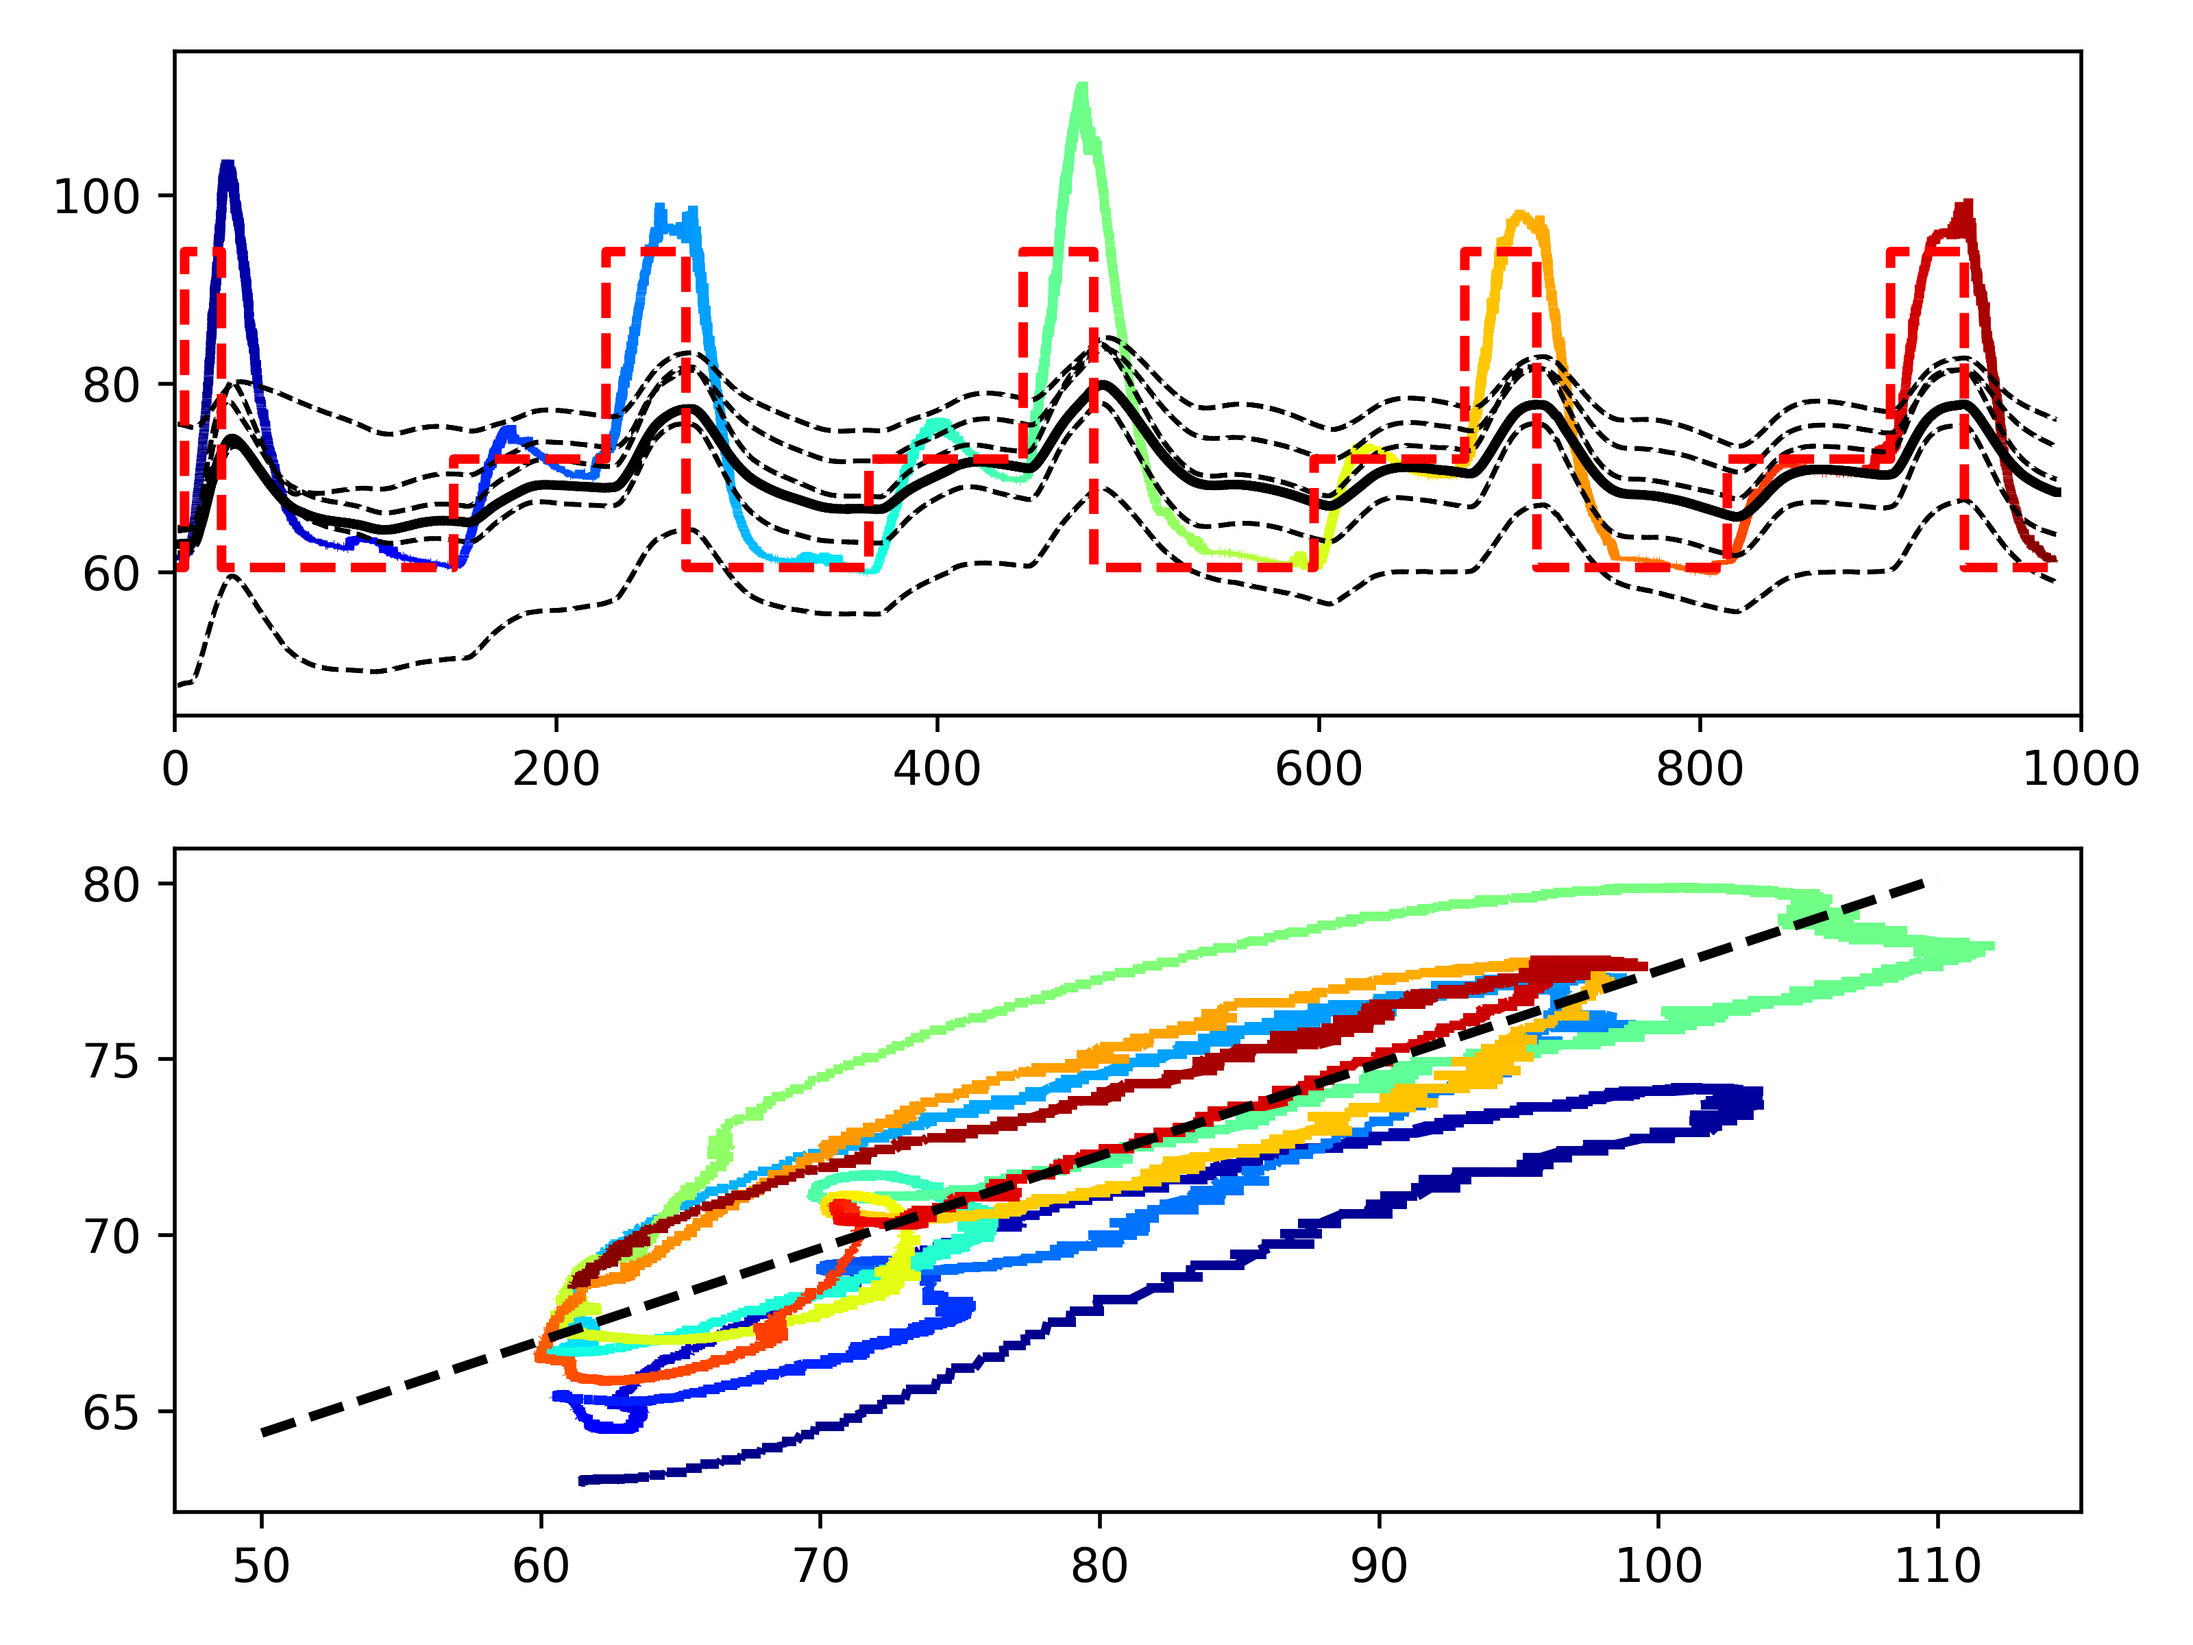
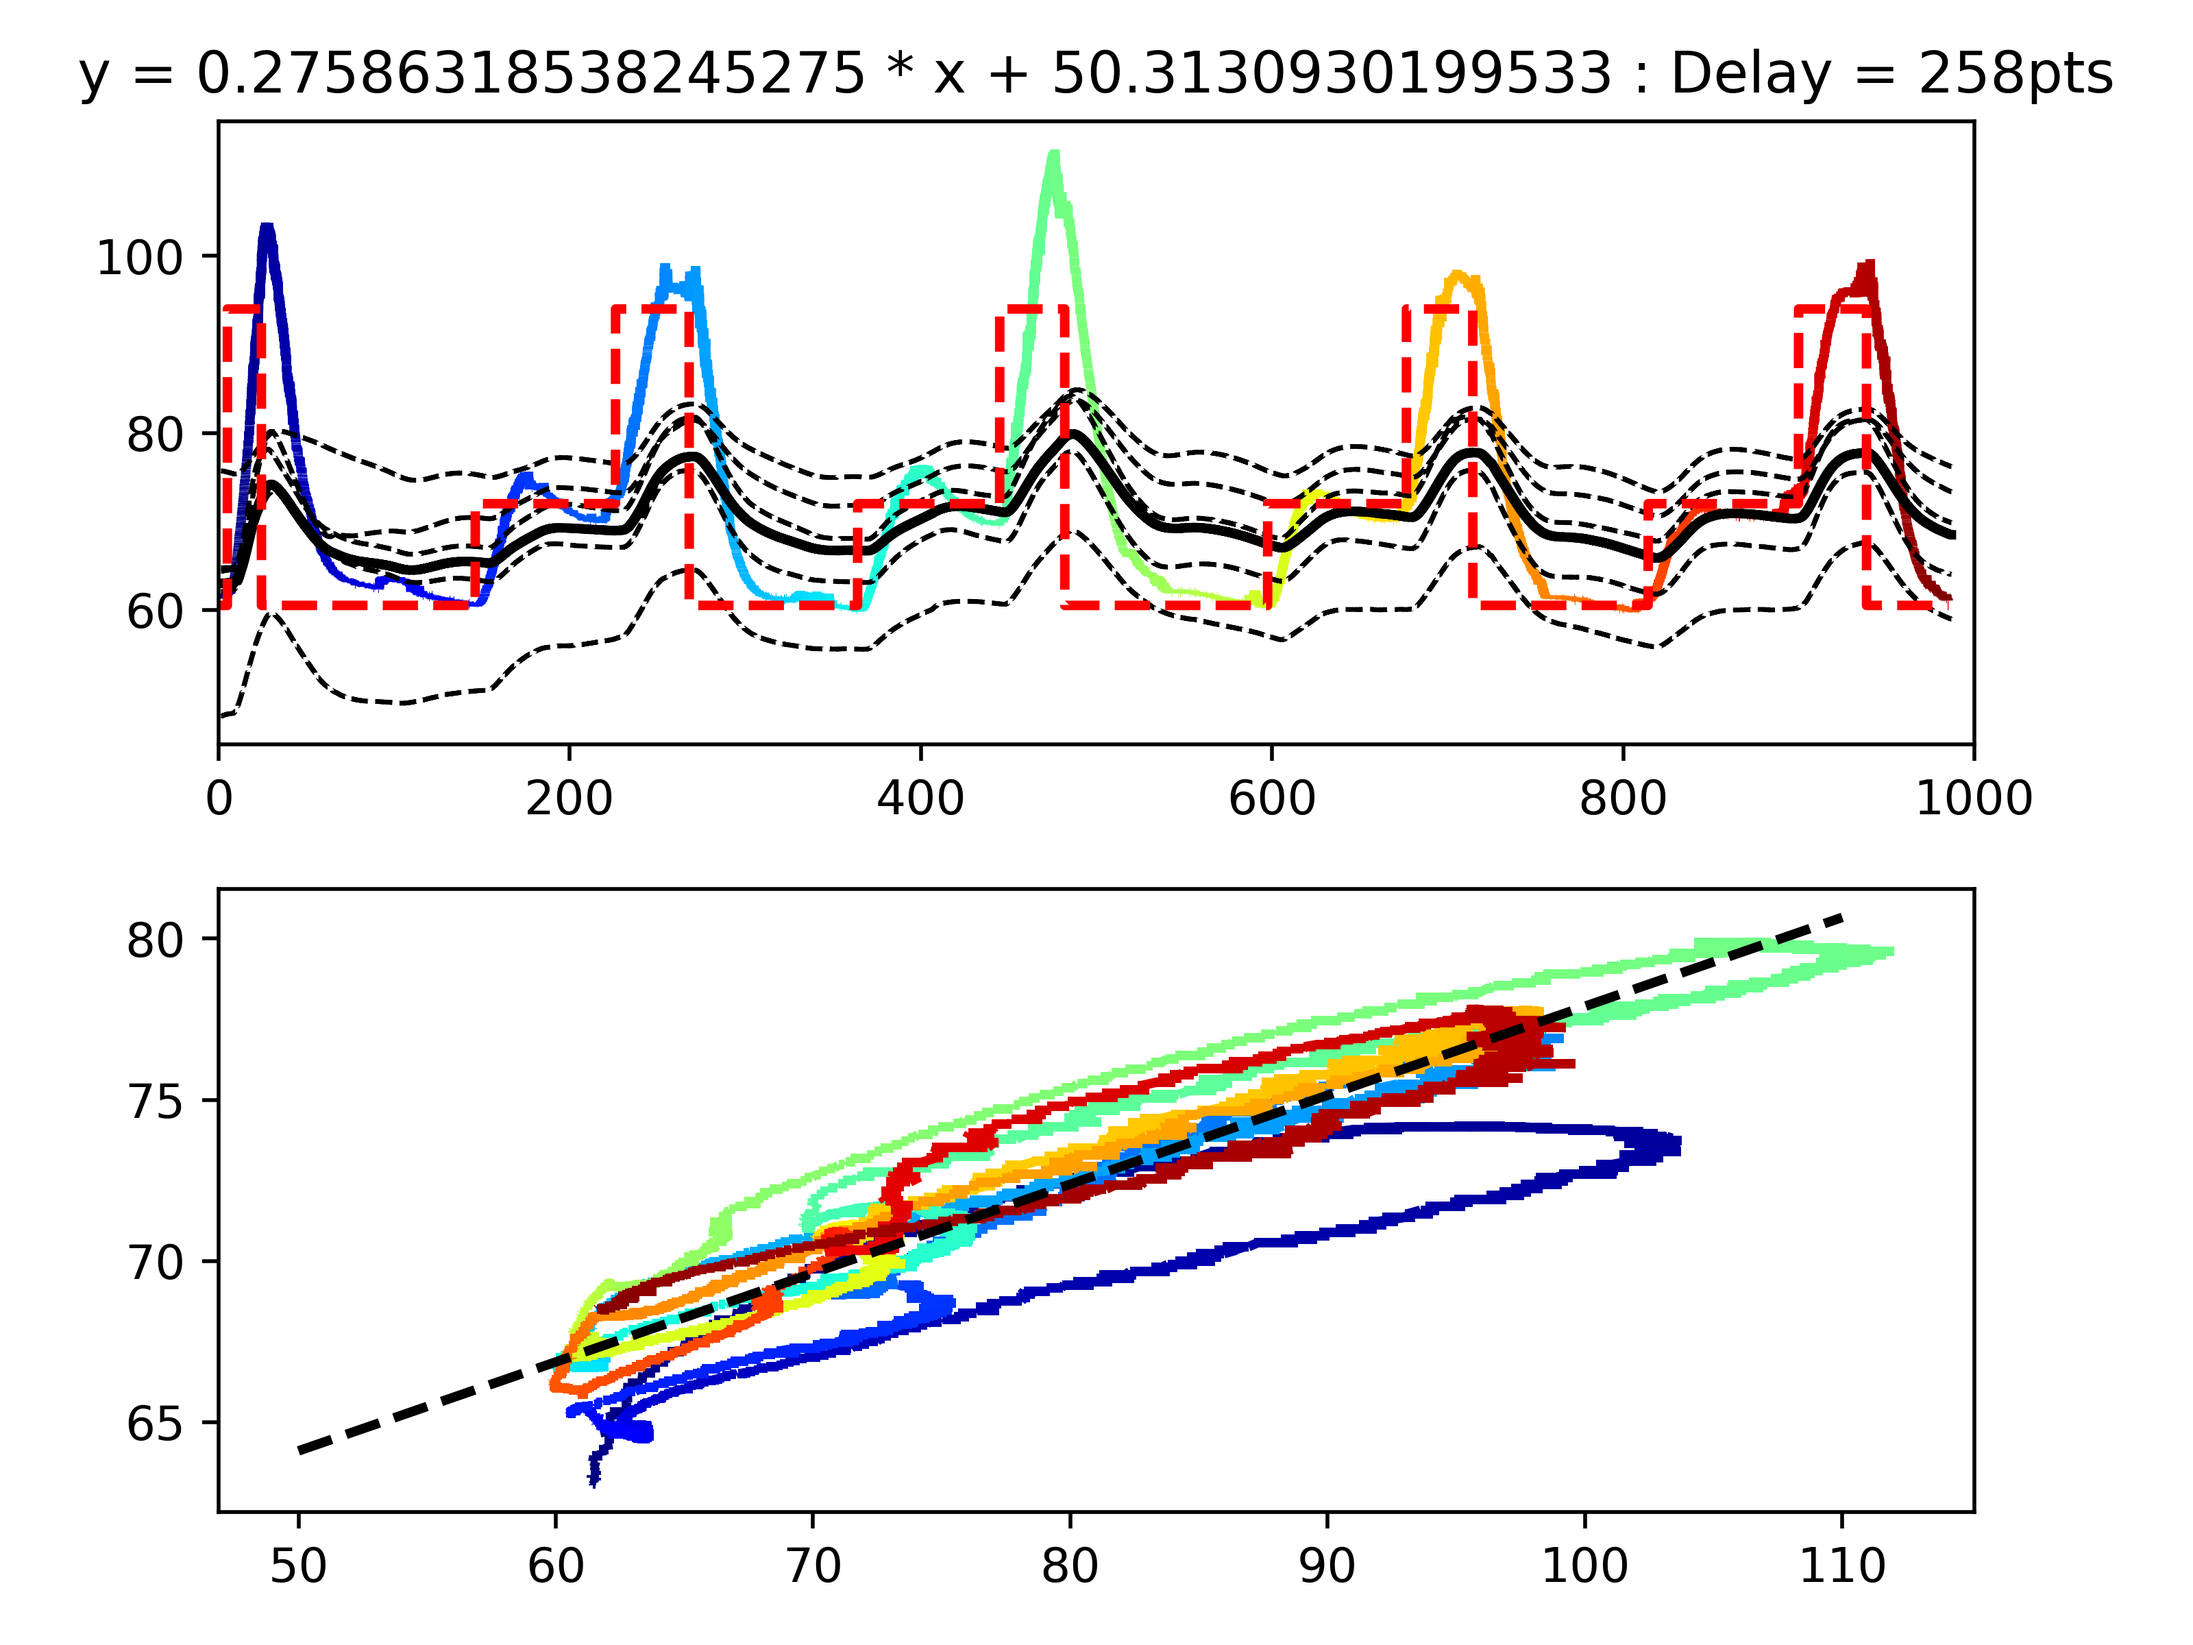
finished curve fit script

diff --git a/DataRecordingAndGraphing/TemperatureCalabration/CurveFitFinder.py b/DataRecordingAndGraphing/TemperatureCalabration/CurveFitFinder.py
@@ -66,7 +66,9 @@ while tData[5][len(tData[5]) - 1] > endT:
         tData[i].pop(len(tData[i]) - 1)
 tData[5] = [t - startT for t in tData[5]] # move times to start time
 
-tAvg = [sum([tData[j][i] for j in range(5)])/5 for i in range(len(tData[0]))]
+tData = tuple([tuple(data) for data in tData])
+
+tAvg = tuple([sum([tData[j][i] for j in range(5)])/5 for i in range(len(tData[0]))])
 
 # plot data and format
 fig, axs = plt.subplots(2, 1)
@@ -90,15 +92,34 @@ def getClose(data, time, target):
             return data[i]
     return data[-1]
 
-closeData = [getClose(readTemp, times, target) for target in tData[5]] 
+closeData = tuple([getClose(readTemp, times, target) for target in tData[5]]) 
+
 
 def eq(x, m, b):
     return m * x + b
 
+# estimate optimal delay
+sigma = [1000000, 1000000]
+delay = 250
+while True:
+    delay += 1
+    lastSigma =  sigma
+    tAvgt = tAvg[delay: -1]
+    closeDatat = closeData[0: -1 - delay]
+    popt, pcov = curve_fit(eq, closeDatat, tAvgt)
+    #popt, pcov = curve_fit(eq, readTemp[0:len(tDatat[0])], tAvgt)
+    sigma = np.sqrt(np.diag(pcov))
+    if lastSigma[1] < sigma[1]:
+        delay -= 1
+        break
+
+tAvg = tAvg[delay: -1]
+closeData = closeData[0: -1 - delay]
 popt, pcov = curve_fit(eq, closeData, tAvg)
 #popt, pcov = curve_fit(eq, readTemp[0:len(tData[0])], tAvg)
 
-print("y =", popt[0], "* x +", popt[1])
+print("y =", popt[0], "* x +", popt[1], ": Delay =", delay, "pts")
+print(np.sqrt(np.diag(pcov)))
 
 points = np.array([numpy.asarray(closeData), numpy.asarray(tAvg)]).T.reshape(-1, 1, 2)
 #points = np.array([numpy.asarray(readTemp[0:len(tData[0])]), numpy.asarray(tAvg)]).T.reshape(-1, 1, 2)
@@ -112,6 +133,7 @@ line = axs[1].add_collection(lc)
 x = (50, 110)
 y = [eq(i, *popt) for i in x]
 axs[1].plot(x, y, c = "k", ls = "--", lineWidth = 2.0)
+axs[0].set_title("y = " + str(popt[0]) + " * x + " + str(popt[1]) + " : Delay = " + str(delay) + "pts")
 fig.tight_layout()
 fig.savefig(fileName + ".png", dpi = 500)
 plt.show()
